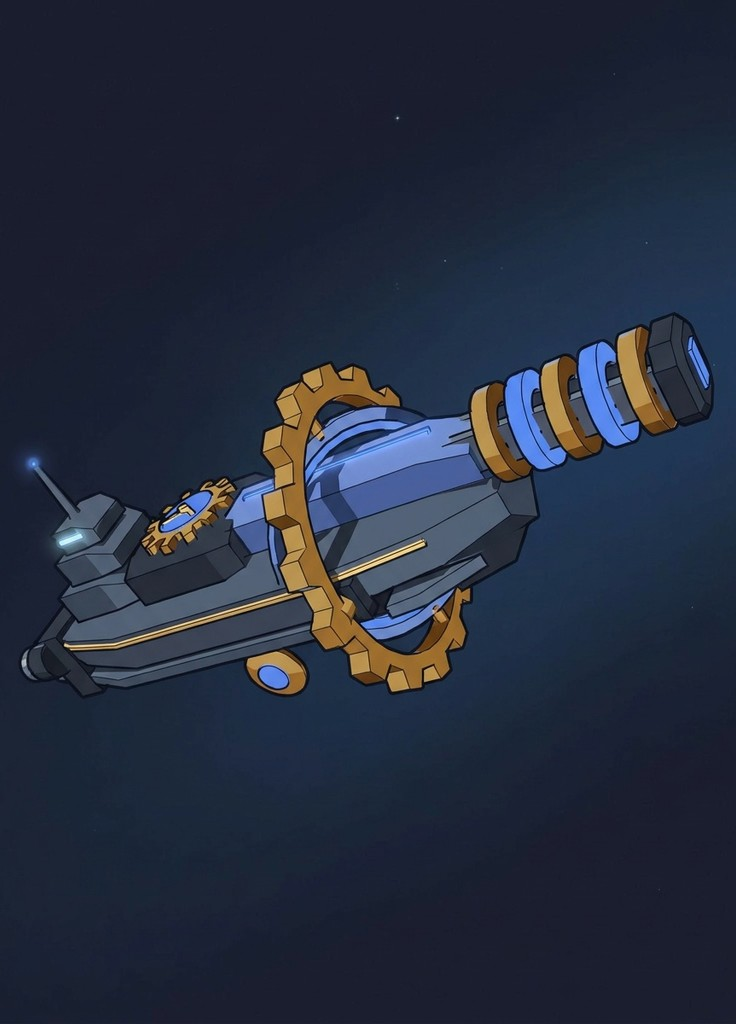
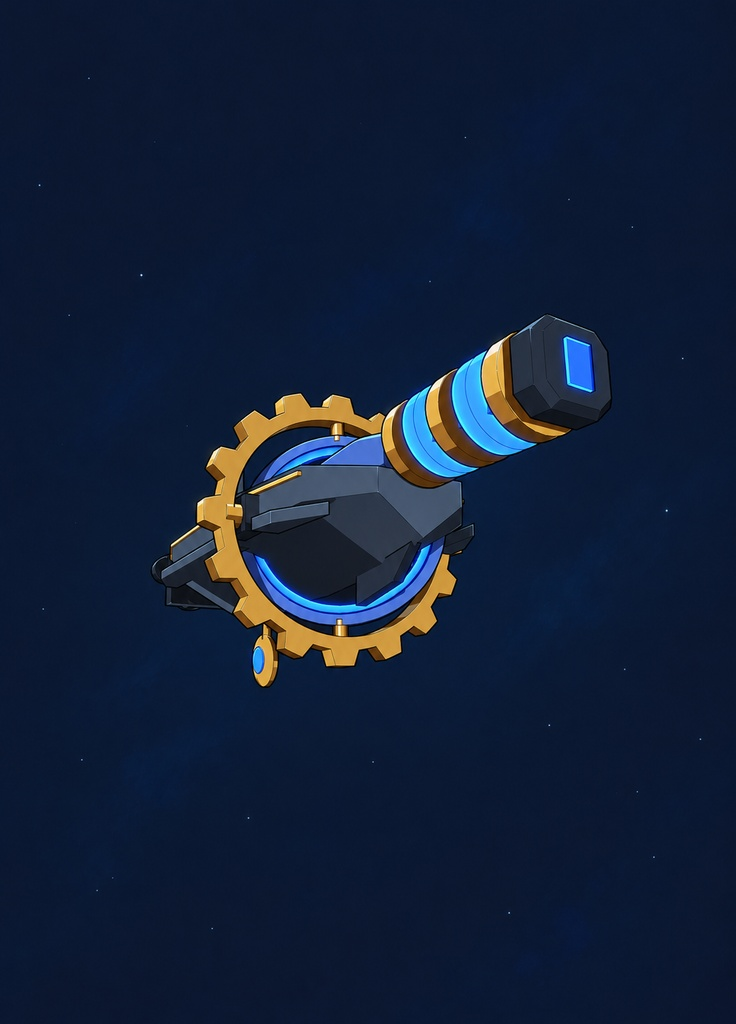
Pendulum-Kartenansicht an die übrigen Schiffe angleichen

Changed region(s): [[0.0312, 0.1875, 1.0, 0.6875], [0.0312, 0.4375, 0.0625, 0.4688]]

diff --git a/client/tools/generateCardArt.ts b/client/tools/generateCardArt.ts
@@ -282,9 +282,9 @@ const SHIP_LOOKS: Record<ShipId, [shape: string, palette: string]> = {
     `dark slate hull, teal accent panels, glowing turquoise (#33D1C6) seams and lights, a bright cyan-white canopy glow, ${TRIM} along the leading edge`,
   ],
   pendulum: [
-    "a railgun battleship lying diagonally in the frame, its very long railgun pointing to the upper right and ringed with glowing coils " +
-      "and brass collars, a huge toothed brass gear ring with a tilted coil ring around the hull, a small brass gear on the deck, " +
-      "a bridge with an antenna and a round brass pendulum bob beneath the keel",
+    "a railgun battleship seen from the front left and slightly below, its very long railgun pointing to the upper right and ringed with glowing coils " +
+      "and brass collars, a huge toothed brass gear ring with a tilted coil ring around the hull, " +
+      "angular underside armor and a round brass pendulum bob beneath the keel",
     `${HULL}, muted steel-blue accent panels, glowing steel blue (#5B8DFF) coils, rings and lights, brass (#C39A52) gear rings, collars and pendulum, ` +
       `${TRIM} along the hull`,
   ],

diff --git a/client/tools/ships/look.py b/client/tools/ships/look.py
@@ -54,7 +54,6 @@ HERO_SHIPS = {
     "titan_carrier": {"dir": (-0.55, -1.0, 0.6), "key": HERO_TOP_KEY},  # Flugdeck mit Landebahn und Insel
     "hive": {"dir": (-0.5, -0.9, 0.8), "key": HERO_TOP_KEY},  # Brutwaben auf dem Rücken
     "bastion": {"dir": (-0.75, -0.6, 0.8), "key": HERO_TOP_KEY},  # Terrassen, Bergfried und Pylone statt nur der Bugwand
-    "pendulum": {"dir": (-1.0, -0.75, 0.55), "roll": -35.0, "key": HERO_TOP_KEY},  # diagonal: Railgun lang, Zahnkranz schräg
 }
 STEPS = (0.12, 0.5)  # Schwellen auf light: Schatten | Halbschatten | Licht
 SHADOW_BIAS = 0.012  # Blender-Einheiten

diff --git a/client/AGENTS.md b/client/AGENTS.md
@@ -7,7 +7,7 @@
 
 - `../shared/` — mit dem Server geteilt: `cards.ts` (Kartendefinitionen samt Flaggschiffen und Tokens), `board.ts` (Lanes, Slots, Platzierungsregeln, Snapshot samt Markierung der Pendulum), `admirals.ts` (die fünf Admirale mit Flaggschiff und Admiralsfähigkeit, Zieltypen der Fähigkeiten, Zahlen in `ABILITY_VALUES`), `powers.ts` (gültige Ziele von Admiralsfähigkeit und Zielerfassung: der Client bietet damit die Zielwahl an, der Server prüft damit), `protocol.ts` (Nachrichten), `resolution.ts` (Auflösung einer Runde: der Server löst damit auf, der Client rechnet damit die Zielvorschau).
 - `src/data/palette.ts` — alle Farben mit Bedeutung, für Babylon (`color3`) und als CSS-Variablen (`installPalette`), darunter die Akzentfarbe je Admiral (Schlüssel = `AdmiralId`, `--osei` …) und der gemeinsame Zierton der Flaggschiffe (`flagshipTrim`), die auch die Modelle tragen; `src/data/cardColors.ts` — Kartenfarben und Farb-Helfer; `src/data/cardArt.ts` — Illustrationen der Karten (`assets/images/cards/<id>.jpg`, auch Flaggschiffe und Trugbild; `assets/images/rules/` sind die Screenshots des Regel-Dialogs); `src/data/admirals.ts` — Porträts der Admirale (`assets/images/admirals/<id>.jpg`, beim Start geladen mit `loadPortraits`) und welcher Admiral zu einem Flaggschiff bzw. einer Fähigkeit gehört (`flagshipAdmiral`, `powerAdmiral`); `src/data/shipModels.ts` — 3D-Modelle der Schiffe (`assets/models/ships/<id>.glb`) und ihre Wracks (`<id>_wreck.glb`), auch für die Drohne, das Trugbild und die Flaggschiffe; `src/data/sounds.ts` — Soundeffekte (`assets/audio/sfx/<id>_<n>.mp3`, je Sound eine oder mehrere Varianten und eine Lautstärke relativ zu den anderen) und Musik (`assets/audio/music/<stimmung>.mp3` mit dem Kernteil `loop` ohne Ein- und Ausklang); `src/data/radio.ts` — Funksprüche des Bordfunks (`assets/audio/radio/<id>_<n>.mp3`, je Variante eine Datei) mit Priorität 1–3; ihr gesprochener Text steht in `src/i18n/en.ts` unter `radio`, der Typ `RadioLines` erzwingt je Spruch gleich viele Dateien und Untertitel.
-- `tools/ships/` — baut die Schiffsmodelle per Skript in Blender im Stil „Clean Toon“ (drei Töne je Fläche, harte Schatten, Konturen, keine Texturen); alle 15 Schiffe samt Drohne, Trugbild und Flaggschiffen sind so gebaut. Ein Modul je Schiff: `fleet/<id>.py` mit `build()`, Registry `fleet.SHIPS`/`fleet.build(id)` (Module werden erst beim Bauen importiert); wer ein Schiff umbaut, ändert nur dessen Modul, neue Helfer gehören zuerst dorthin (Stilregeln, Fallen, Dreiecksbudget und Kennzeichen je Schiff in `tools/ships/STYLE.md`). Gemeinsam: `vf.py` (Profile, Lofts, Primitive, `Ship` mit `lift`, Material-API `toon`/`light`/`hologram`/`materials`, Prüfungen `slot` und `loose_parts`, GLB-Export; im Docstring der genaue Material-Vertrag), `palette.py` (alle Farben: Tonfamilien, Panzerung und Akzent je Klasse nach `cardColors.ts`, Admiralsfarben und Zierton aus `palette.ts`, Sonderfarben einzelner Schiffe, Kontur; `tones` leitet Halbschatten und Schatten aus dem Licht-Ton ab), `parts.py` (Helfer mehrerer Schiffe: Turm, Düse mit Segmentzahl, Wappenplatte, Zierlinien, `on_surface`, Formen wie `sym`, `stealth`, `block`, `beam`, `axle`, `ring_at`), `look.py` (Lichtrichtungen je Ansicht, Kartenkamera mit Ausnahmen je Schiff `HERO_SHIPS`, Stufen, Schlagschatten, Kantenlicht samt der Spielregel ohne Kantenlicht auf nach oben zeigenden eckigen Flächen, Saum, Glanzpunkt, Linienbreiten, Glühen; dieselben Werte wie `src/scene/toon.ts`), `wreck.py` (Voronoi-Bruch wie das Cell-Fracture-Add-on, Schnittflächen `<id>_wreck` verkohlt mit Glutmuster, Hologramme zerfallen in offene Splitter). Material-Vertrag: Jedes Material trägt `extras.vf` (in Babylon `material.metadata.gltf.extras.vf` über die Loader-Erweiterung `ExtrasAsMetadata`), Farben als sRGB-Hex: `{"kind": "toon", "tones": [Licht, Halbschatten, Schatten], "round", "glint"}` (glTF: baseColorFactor = Licht-Ton, metallic 0, roughness 1), `{"kind": "light", "color", "glow"}` (unbeleuchtet in genau der Farbe über emissiveFactor: Düsen, Fenster, Emitter, auch die Kennzeichen `<id>_signal` in der UI-Farbe des Admirals mit `glow: false`), `{"kind": "hologram", "color", "alpha", "glow"}` (BLEND, als einzige Art doubleSided), `{"kind": "wreck", "tones", "heat"}` (emissiveTexture Glutmuster × heat; nur diese Primitive tragen TEXCOORD_0); die Zierlinie `<id>_trim` ist toon in Goldtönen. Konvention: Nase nach -Y, oben +Z, ein Mesh je Schiff, eckige Materialien mit Flächennormalen, runde und Lichter geglättet mit harten Kanten ab 38°, kein Bevel, keine UVs außer an Bruchflächen, nichts unter Blender-z −1,4 (Flaggschiffe −1,27); Materialien einseitig außer Hologrammen, jede Hülle geschlossen und nach außen orientiert, auch an den Wrackstücken; jeder Bau liefert dieselben Bytes. Bauen: `<blender> -b --factory-startup -P tools/ships/build.py -- [ids…]` (Blender auf dem Mac `/Applications/Blender.app/Contents/MacOS/Blender`, auf dem Linux-Server ohne GPU `~/.local/opt/blender-5.2.3-linux-x64/run.sh`; exportiert `<id>.glb` und `<id>_wreck.glb` nach `assets/models/ships/` und meldet Dreiecke, KB, Teile unter dem Slot, schwebende Teile und offene oder falsch orientierte Hüllen; alle 15 in etwa 7 s; in einer laufenden Blender-Instanz `build.build_all()`). Vorschau: `<blender> -b --factory-startup -P tools/ships/preview.py -- [ids…] [--views board,zoom,behind,enemy,enemy_zoom,hero,wreck] [--sheet|--sheet-only]` baut direkt aus den Modulen und schreibt `tools/ships/renders/<id>/<ansicht>.png` (nicht im Repo): `board` in Spielgröße auf dem Pad vor dem Spielhintergrund, `zoom`, `behind` von hinten oben wie die zweite Spielkamera, `enemy`/`enemy_zoom` als Gegner um 180° gedreht (Licht wie im Spiel je Seite gespiegelt, also auch von vorn), `hero` als Kartenvorlage 736×1024 von schräg unten (Titan Carrier, Hive, Bastion und Pendulum von schräg oben, weil ihr Kennzeichen oben liegt, die Pendulum diagonal gerollt), `wreck` als Explosionszeichnung; `--sheet` legt je Ansicht einen Kontaktbogen `renders/sheet_<ansicht>.png` an; `VF_SAMPLES` (24, für Kartenvorlagen 64) und `VF_THREADS` (2), ein `board` dauert etwa 3–4 s plus Start, ein `hero` mit 64 Samples etwa 15 s. Größen: 0,9k (Trugbild) bis 6,5k Dreiecke (Dreadnought), 47–204 KB je Schiff, Wracks 117–454 KB, alle GLBs zusammen 6,1 MB.
+- `tools/ships/` — baut die Schiffsmodelle per Skript in Blender im Stil „Clean Toon“ (drei Töne je Fläche, harte Schatten, Konturen, keine Texturen); alle 15 Schiffe samt Drohne, Trugbild und Flaggschiffen sind so gebaut. Ein Modul je Schiff: `fleet/<id>.py` mit `build()`, Registry `fleet.SHIPS`/`fleet.build(id)` (Module werden erst beim Bauen importiert); wer ein Schiff umbaut, ändert nur dessen Modul, neue Helfer gehören zuerst dorthin (Stilregeln, Fallen, Dreiecksbudget und Kennzeichen je Schiff in `tools/ships/STYLE.md`). Gemeinsam: `vf.py` (Profile, Lofts, Primitive, `Ship` mit `lift`, Material-API `toon`/`light`/`hologram`/`materials`, Prüfungen `slot` und `loose_parts`, GLB-Export; im Docstring der genaue Material-Vertrag), `palette.py` (alle Farben: Tonfamilien, Panzerung und Akzent je Klasse nach `cardColors.ts`, Admiralsfarben und Zierton aus `palette.ts`, Sonderfarben einzelner Schiffe, Kontur; `tones` leitet Halbschatten und Schatten aus dem Licht-Ton ab), `parts.py` (Helfer mehrerer Schiffe: Turm, Düse mit Segmentzahl, Wappenplatte, Zierlinien, `on_surface`, Formen wie `sym`, `stealth`, `block`, `beam`, `axle`, `ring_at`), `look.py` (Lichtrichtungen je Ansicht, Kartenkamera mit Ausnahmen je Schiff `HERO_SHIPS`, Stufen, Schlagschatten, Kantenlicht samt der Spielregel ohne Kantenlicht auf nach oben zeigenden eckigen Flächen, Saum, Glanzpunkt, Linienbreiten, Glühen; dieselben Werte wie `src/scene/toon.ts`), `wreck.py` (Voronoi-Bruch wie das Cell-Fracture-Add-on, Schnittflächen `<id>_wreck` verkohlt mit Glutmuster, Hologramme zerfallen in offene Splitter). Material-Vertrag: Jedes Material trägt `extras.vf` (in Babylon `material.metadata.gltf.extras.vf` über die Loader-Erweiterung `ExtrasAsMetadata`), Farben als sRGB-Hex: `{"kind": "toon", "tones": [Licht, Halbschatten, Schatten], "round", "glint"}` (glTF: baseColorFactor = Licht-Ton, metallic 0, roughness 1), `{"kind": "light", "color", "glow"}` (unbeleuchtet in genau der Farbe über emissiveFactor: Düsen, Fenster, Emitter, auch die Kennzeichen `<id>_signal` in der UI-Farbe des Admirals mit `glow: false`), `{"kind": "hologram", "color", "alpha", "glow"}` (BLEND, als einzige Art doubleSided), `{"kind": "wreck", "tones", "heat"}` (emissiveTexture Glutmuster × heat; nur diese Primitive tragen TEXCOORD_0); die Zierlinie `<id>_trim` ist toon in Goldtönen. Konvention: Nase nach -Y, oben +Z, ein Mesh je Schiff, eckige Materialien mit Flächennormalen, runde und Lichter geglättet mit harten Kanten ab 38°, kein Bevel, keine UVs außer an Bruchflächen, nichts unter Blender-z −1,4 (Flaggschiffe −1,27); Materialien einseitig außer Hologrammen, jede Hülle geschlossen und nach außen orientiert, auch an den Wrackstücken; jeder Bau liefert dieselben Bytes. Bauen: `<blender> -b --factory-startup -P tools/ships/build.py -- [ids…]` (Blender auf dem Mac `/Applications/Blender.app/Contents/MacOS/Blender`, auf dem Linux-Server ohne GPU `~/.local/opt/blender-5.2.3-linux-x64/run.sh`; exportiert `<id>.glb` und `<id>_wreck.glb` nach `assets/models/ships/` und meldet Dreiecke, KB, Teile unter dem Slot, schwebende Teile und offene oder falsch orientierte Hüllen; alle 15 in etwa 7 s; in einer laufenden Blender-Instanz `build.build_all()`). Vorschau: `<blender> -b --factory-startup -P tools/ships/preview.py -- [ids…] [--views board,zoom,behind,enemy,enemy_zoom,hero,wreck] [--sheet|--sheet-only]` baut direkt aus den Modulen und schreibt `tools/ships/renders/<id>/<ansicht>.png` (nicht im Repo): `board` in Spielgröße auf dem Pad vor dem Spielhintergrund, `zoom`, `behind` von hinten oben wie die zweite Spielkamera, `enemy`/`enemy_zoom` als Gegner um 180° gedreht (Licht wie im Spiel je Seite gespiegelt, also auch von vorn), `hero` als Kartenvorlage 736×1024 von schräg unten (Titan Carrier, Hive und Bastion von schräg oben, weil ihr Kennzeichen oben liegt), `wreck` als Explosionszeichnung; `--sheet` legt je Ansicht einen Kontaktbogen `renders/sheet_<ansicht>.png` an; `VF_SAMPLES` (24, für Kartenvorlagen 64) und `VF_THREADS` (2), ein `board` dauert etwa 3–4 s plus Start, ein `hero` mit 64 Samples etwa 15 s. Größen: 0,9k (Trugbild) bis 6,5k Dreiecke (Dreadnought), 47–204 KB je Schiff, Wracks 117–454 KB, alle GLBs zusammen 6,1 MB.
 - `dev/hit.html` — Vorschau des Treffer-Effekts ohne Server (`BUN_PORT=4173 bun dev/hit.html`): zwei Schiffe beschießen sich in Dauerschleife, `?slow=4` bremst Tweens und Partikel um den Faktor, `?hit=<name>` erzwingt eine Einschlag-Variante. `dev/arrive.html` zeigt ebenso den Deploy-Einflug vom Bildrand, teils mit Überflug über ein Schiff in der Command-Lane, `dev/move.html` die Lane-Wechsel je einer Schiffsklasse (`?ship=<id>` nur dieses Schiff mit wechselndem Slot-Versatz, `?within` seitlicher Versatz innerhalb der Lane). `dev/commands.html` spielt mit der echten `RoundPlayback` (Banner, Log, Schwebetexte) erfundene Ereignisse der neuen Befehle und Schüsse im Kampf (`?card=combat`: Schiffsfeuer verpufft an der Deckung, Spaltenfeuer geht durch, Schüsse verpuffen am zerstörten Ziel, in leerer und geräumter Spalte und ohne Ziel) auf einem kleinen Brett ab, je Befehl eine oder zwei Szenen in Dauerschleife (`?card=<id>` nur diese, `?slow=`, `?lang=de`; `window.scene`, `window.sceneCount`).
 - `dev/sounds.html` — Vorschau aller Klänge ohne Server (`BUN_PORT=4173 bun dev/sounds.html`): Lautstärkeregler, Musik in beiden Stimmungen, die synthetisierten UI-Klänge, jede Variante jedes Effekts einzeln, so wie das Spiel sie abspielt, und jede Aufnahme des Bordfunks über die Funkstrecke (Text im Tooltip); daneben Dauer, Spitze, Lautheit, stiller Vorlauf, Pegel von Anfang und Ende, bei der Musik der gemessene Kernteil (`window.soundStats`). Die übrigen Vorschau-Seiten laden die Sounds mit `loadSounds` und spielen sie ebenfalls, sobald man einmal hineinklickt.
 - `dev/destroy.html` — Vorschau der Zerstörungsanimation ohne Server (`BUN_PORT=4173 bun dev/destroy.html`): alle acht Deck-Schiffe gehen nacheinander unter und landen neu, `?flagships` stattdessen die fünf Flaggschiffe und das Trugbild, `?slow=`, `?ship=<id>` zeigt nur dieses Schiff (auch `drone`, `decoy` und Flaggschiffe); `window.view` ist die Szene, `window.destroying` das gerade untergehende Schiff (für Screenshot-Serien).

diff --git a/client/tools/ships/STYLE.md b/client/tools/ships/STYLE.md
@@ -113,8 +113,7 @@ Kennzeichen bleiben und werden eher größer:
 - **Kennzeichen oben:** Die Standard-Kartenkamera kommt von schräg unten und versteckt alles, was auf dem Deck liegt.
   Solche Schiffe bekommen in `look.HERO_SHIPS` eine Kartenkamera von vorn oben mit eigenem Licht (Deck hell, Flanke
   halbhell): heute Titan Carrier (Flugdeck, Insel), Hive (Waben), Bastion (Terrassen, Bergfried, Pylone statt nur der
-  Bugwand) und Pendulum (von schräg vorn oben, um −35° gerollt: Die Railgun liegt lang und diagonal im Hochformat, der
-  Zahnkranz dominiert nicht frontal).
+  Bugwand). Die Pendulum nutzt die Standardansicht von schräg unten, passend zu den übrigen Schiffskarten.
 - **Weiße Ringflächen:** Runde Materialien mit Glanzpunkt (`steel`, `accent_round`, `glass`, Messing) auf großen ebenen
   Flächen wie Stirnseiten von Rohren oder Ringscheiben überschreiten in `hero` als Ganzes die Glanzschwelle und leuchten
   weiß. Große ebene Flächen bekommen ein Material ohne Glanz (`dark_round`, `hull_round` oder die eckige Variante).
